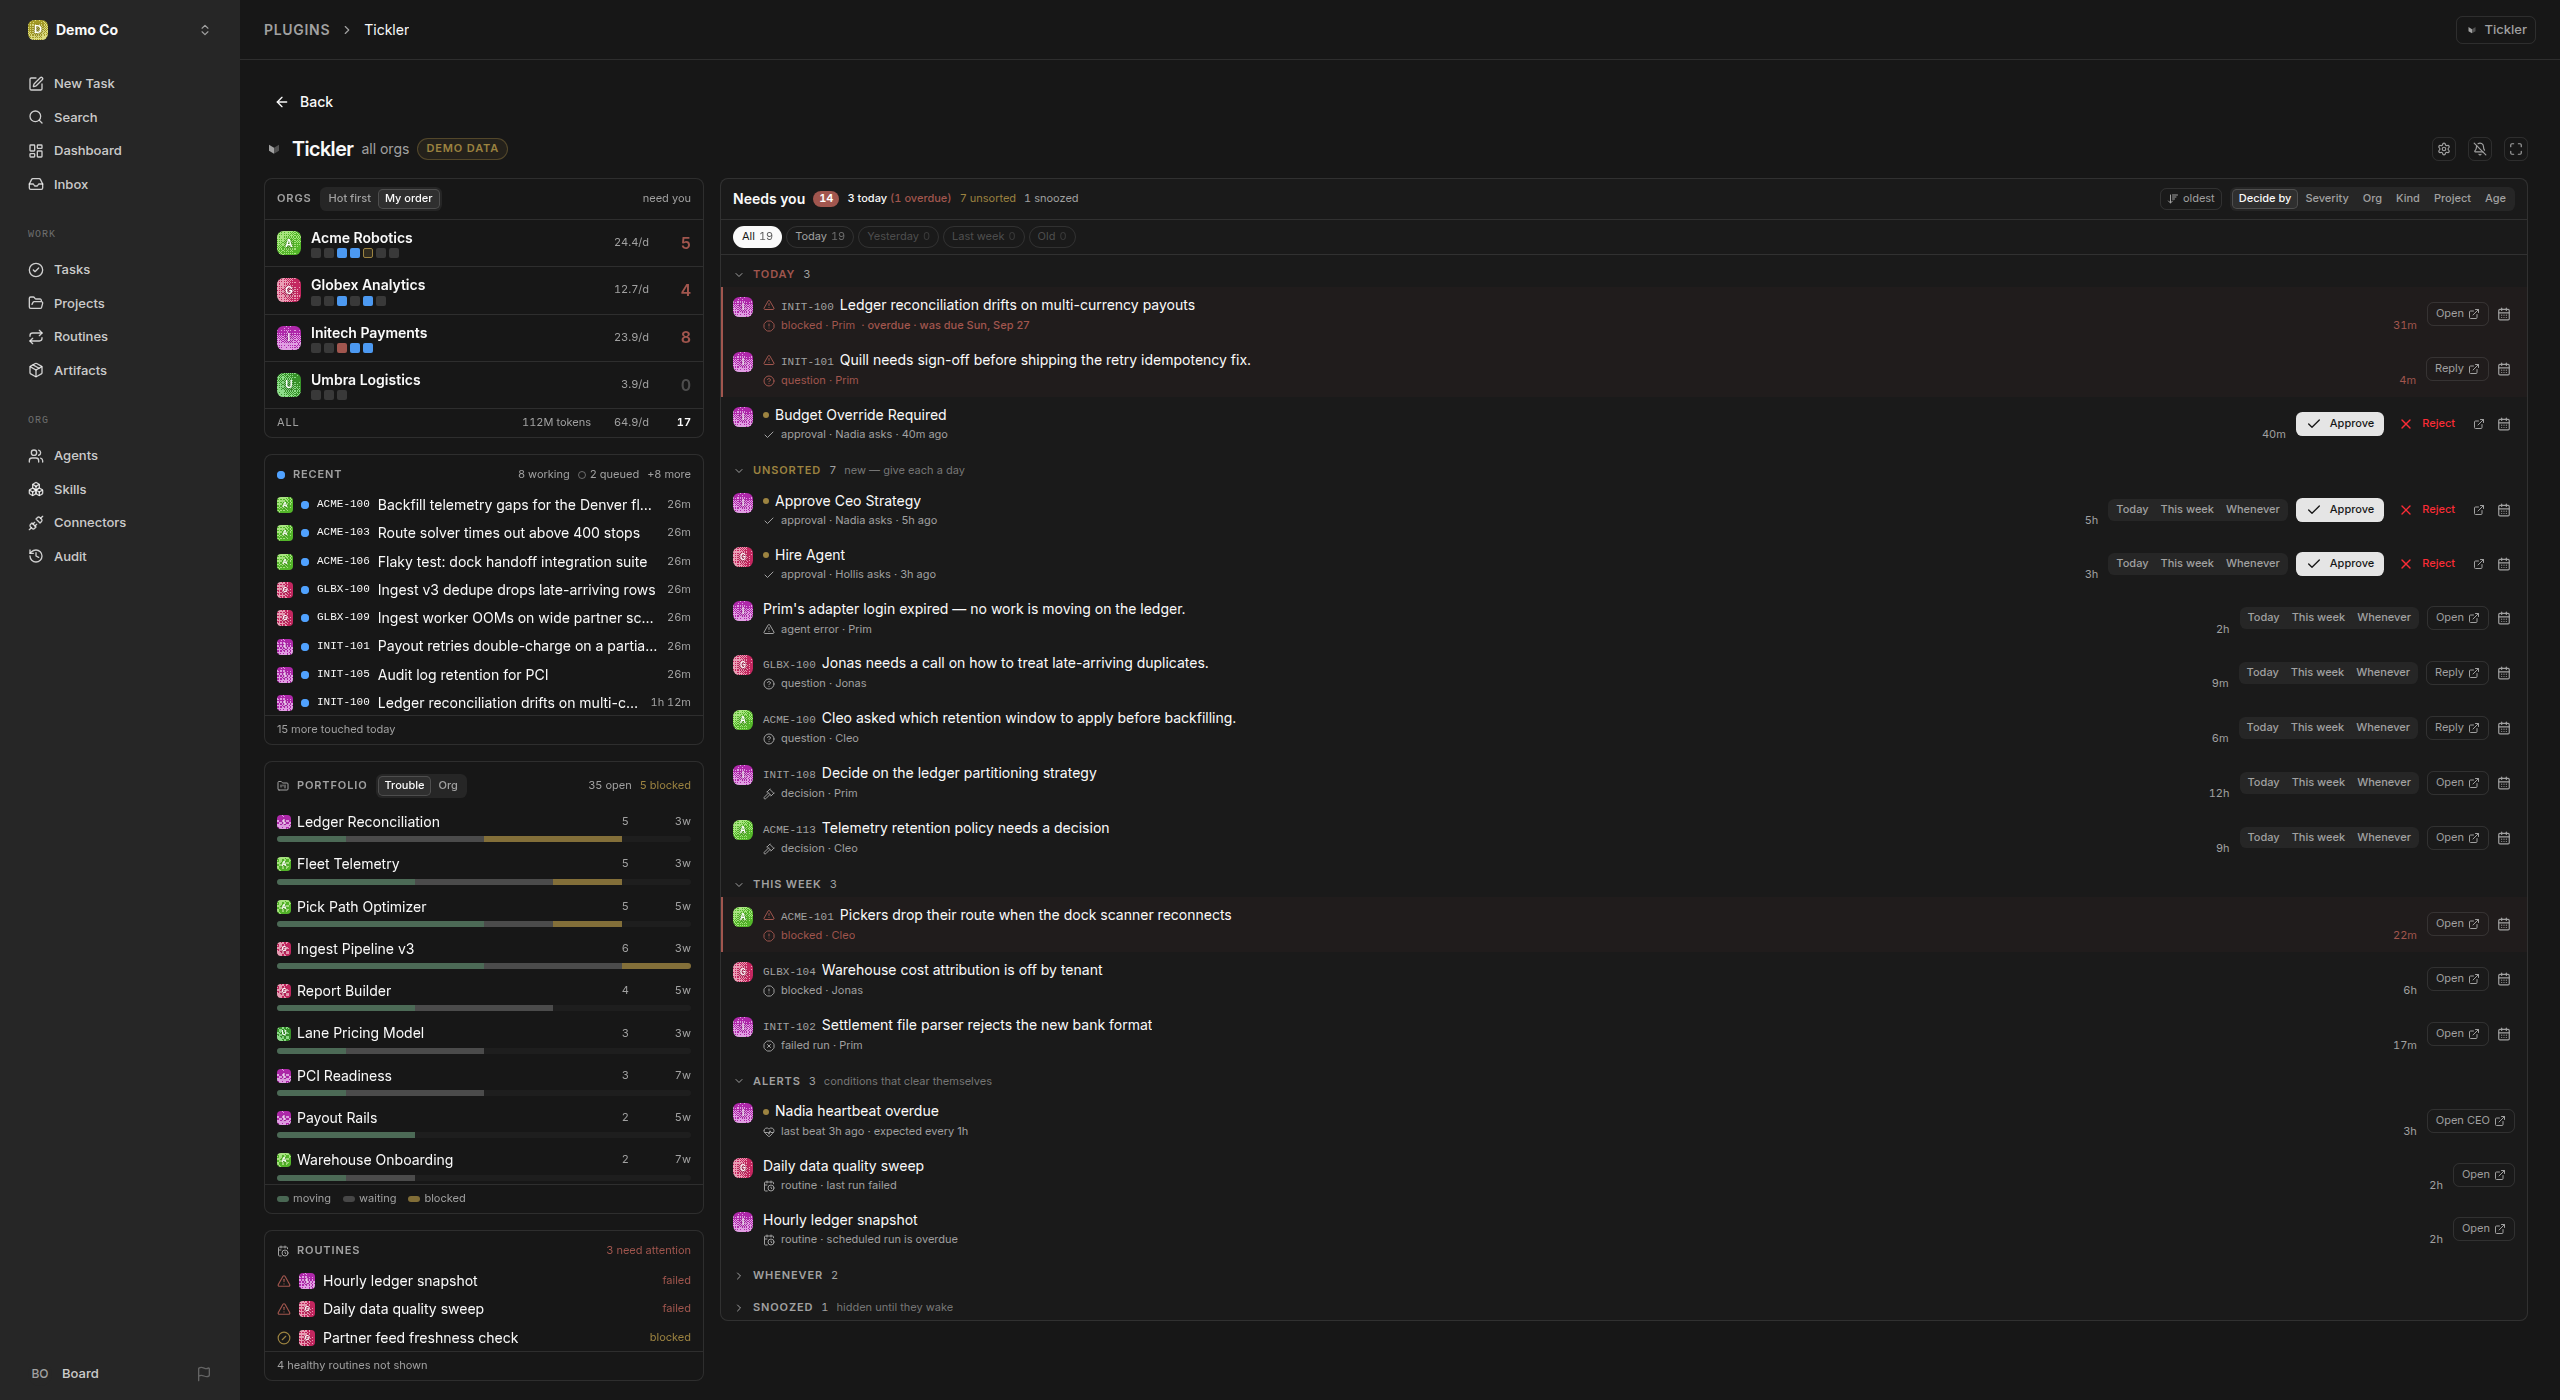
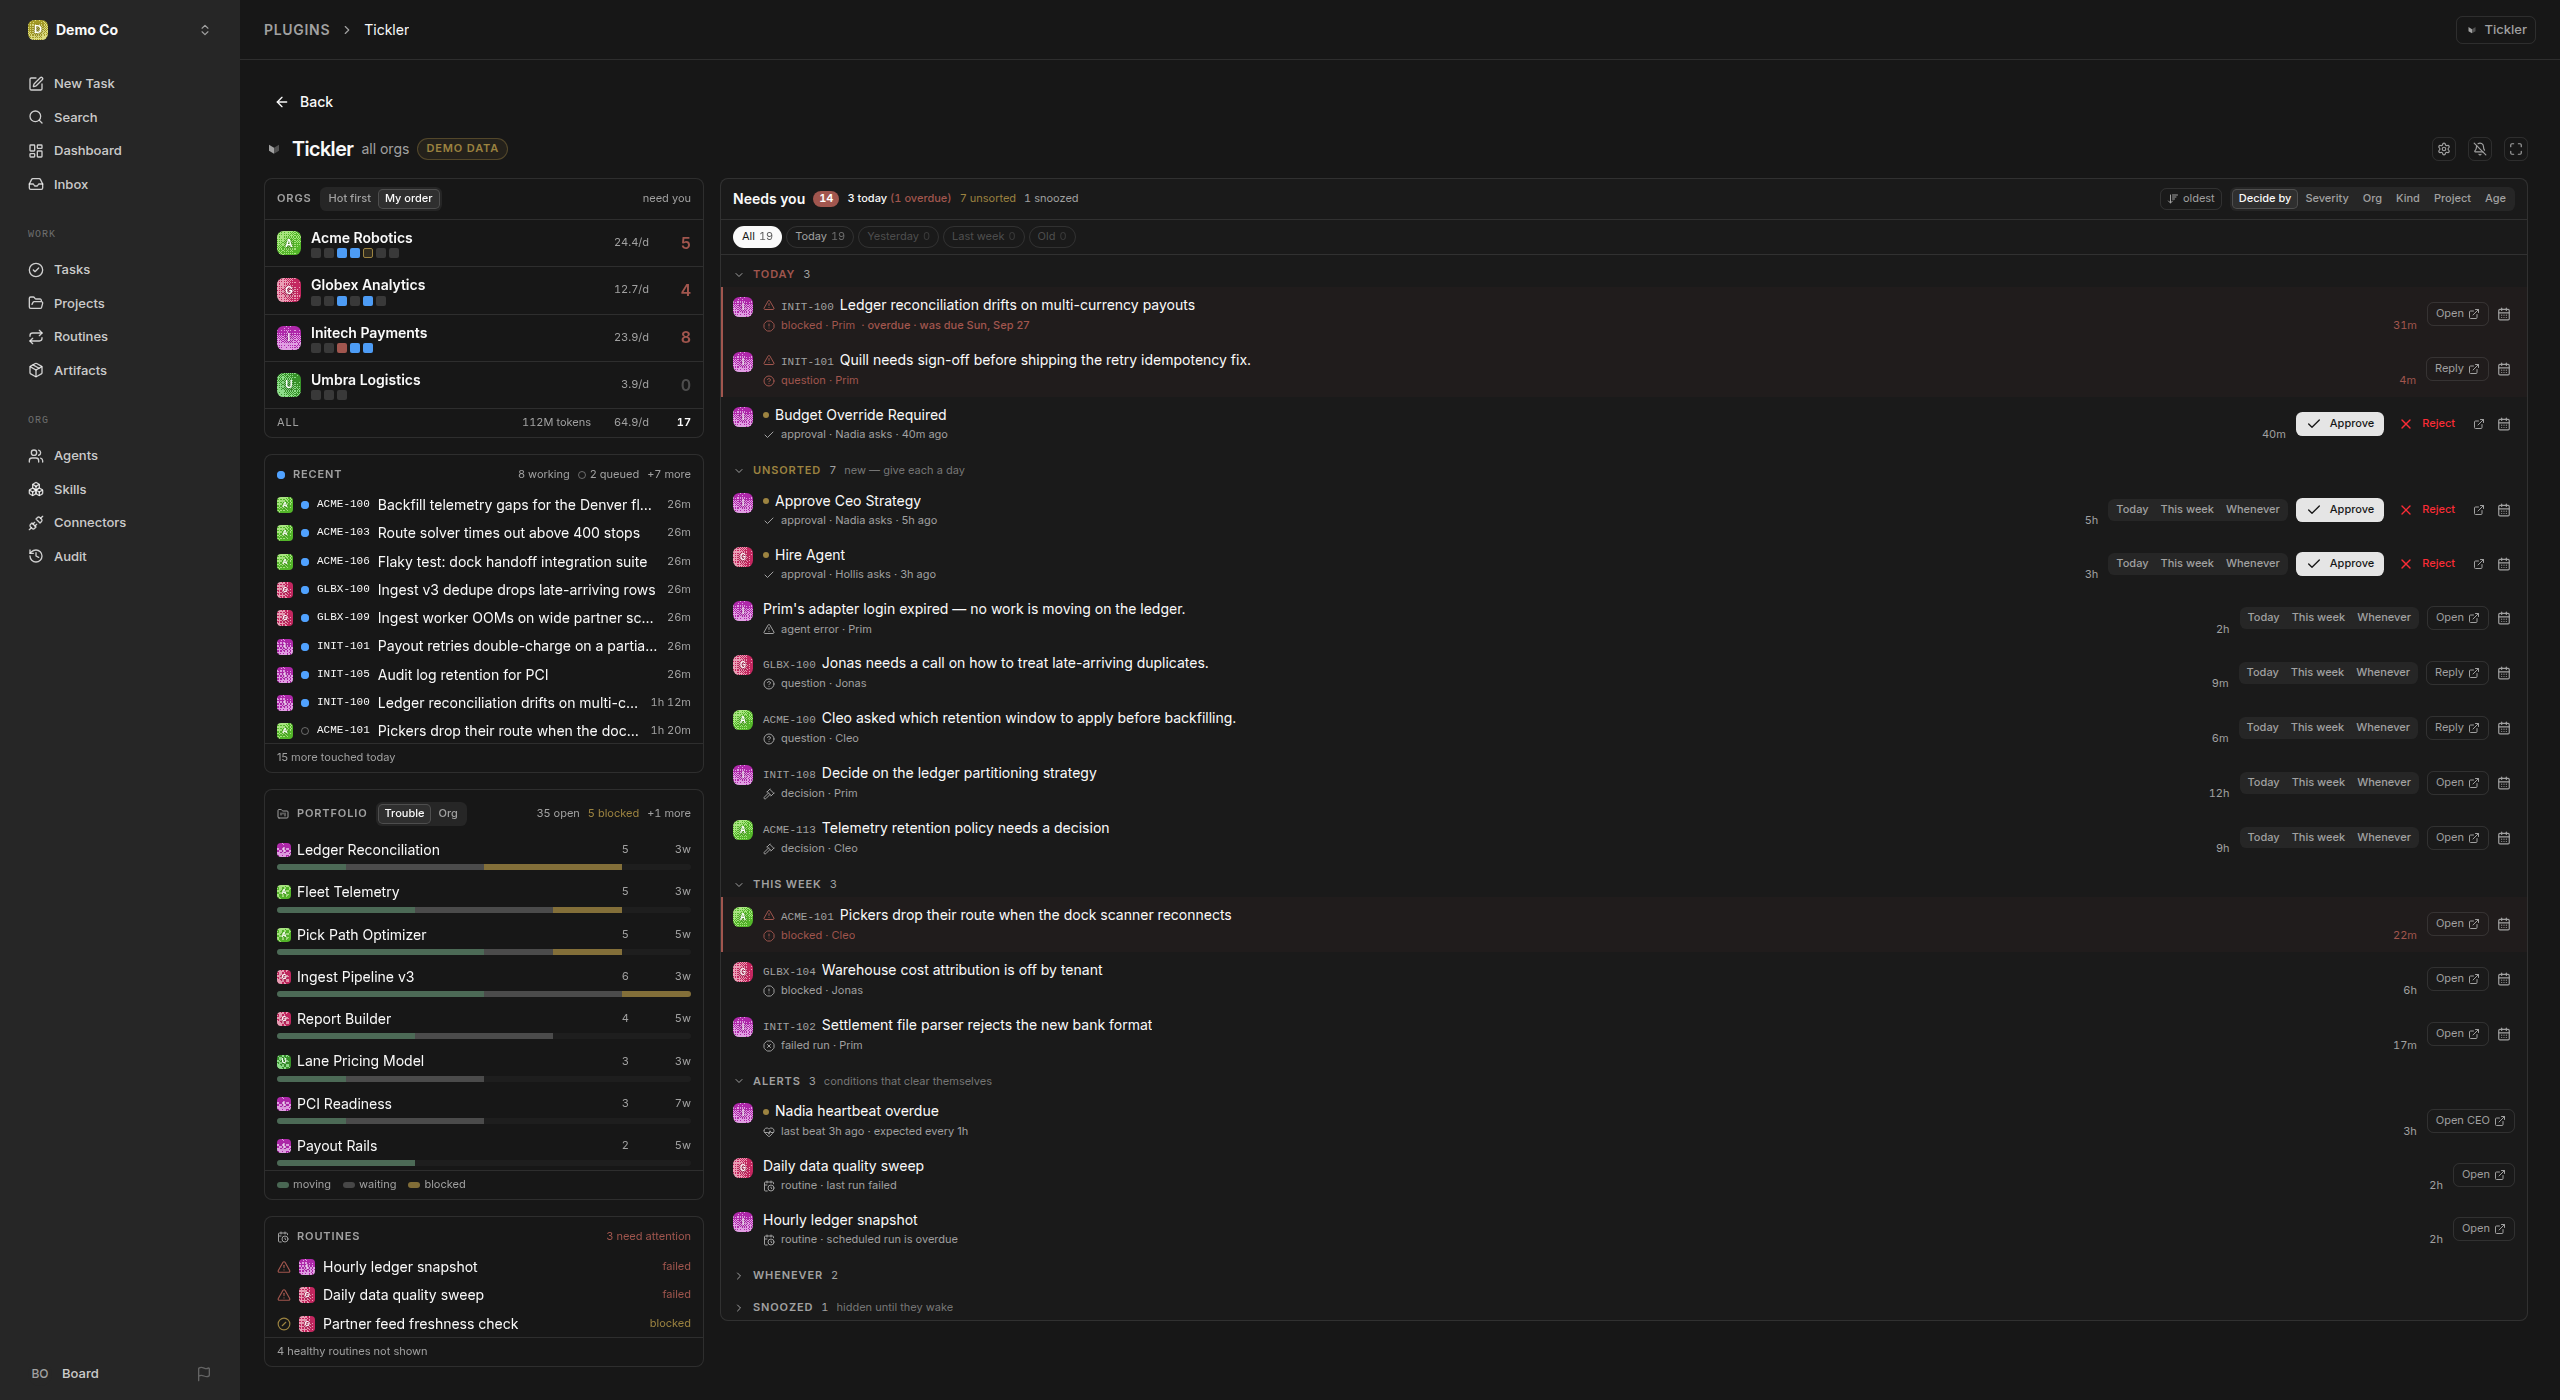
feat(board): Orgs and Recent are served first when the rail is short (PLI-246)
The rail ranked its four panes strictly — Orgs, then Portfolio, then Recent,
then Routines — so a laptop, which has height for about two of them, spent it
on Orgs and Portfolio and left Recent as a one-line digest. Recent is what the
board is for. Orgs and Recent now share the first rank and keep their rows;
Portfolio and Routines rank equally behind them and take what is left.

Panes may tie on priority now, and tie by the order they are declared.

Changed region(s): [[0.0938, 0.5221, 0.2812, 0.86], [0.0938, 0.8907, 0.1875, 0.9829], [0.25, 0.8907, 0.2812, 0.9521]]

diff --git a/src/ui/lib/rail-budget.test.ts b/src/ui/lib/rail-budget.test.ts
@@ -10,9 +10,9 @@ import {
 /** The board's own four panes, so the numbers under test are the real ones. */
 const PANES: TicklerRailPaneSpec[] = [
   { key: "orgs", minRows: 3, idealRows: Infinity, priority: 1 },
+  { key: "recent", minRows: 3, idealRows: 12, priority: 1 },
   { key: "portfolio", minRows: 3, idealRows: 11, priority: 2 },
-  { key: "recent", minRows: 3, idealRows: 12, priority: 3 },
-  { key: "routines", minRows: 2, idealRows: 4, priority: 4 },
+  { key: "routines", minRows: 2, idealRows: 4, priority: 2 },
 ];
 
 /** A measured pane: 28px of header, a 20px footer, 32px rows, a 2px border. */
@@ -89,20 +89,33 @@ describe("distributeRailHeight", () => {
     for (const { key } of PANES) expect(budget[key]!.hidden, key).toBe(boxes[key].total - budget[key]!.rows);
   });
 
-  // Priority buys a place in the queue, not a place on the page: a pane whose
-  // minimum will not fit is passed over, and a cheaper pane behind it is still
-  // served. Two routine failures are worth more of a cramped rail than three of
-  // twenty Recent rows, which is the trade this ordering is meant to make.
-  it("passes over a pane whose minimum will not fit and serves a cheaper one behind it", () => {
+  // What a short screen is spent on, which is the board's one editorial choice:
+  // Orgs and Recent share the first rank and keep their rows, and Portfolio —
+  // second rank, and no cheaper than Recent — falls back to the digest in its
+  // header rather than taking Recent's place.
+  it("keeps the first-rank panes when there is only room for some of them", () => {
     const boxes = metrics({ orgs: 12, portfolio: 11, recent: 20, routines: 3 });
     const budget = distributeRailHeight(PANES, boxes, { available: 500, gap: GAP });
     expect(budget.orgs!.demoted).toBe(false);
-    expect(budget.portfolio!.demoted).toBe(false);
-    expect(budget.recent!.demoted).toBe(true);
-    expect(budget.recent!.height).toBeNull();
-    expect(budget.recent!.hidden).toBe(20);
-    expect(budget.routines!.rows).toBe(2);
+    expect(budget.recent!.demoted).toBe(false);
+    expect(budget.recent!.rows).toBeGreaterThanOrEqual(3);
+    expect(budget.portfolio!.demoted).toBe(true);
+    expect(budget.portfolio!.height).toBeNull();
+    expect(budget.portfolio!.hidden).toBe(11);
     expect(spent(budget, boxes)).toBeLessThanOrEqual(500);
+  });
+
+  // Priority buys a place in the queue, not a place on the page: a pane whose
+  // minimum will not fit is passed over, and a cheaper pane behind it is still
+  // served. Two routine failures are worth more of a cramped rail than the
+  // twelfth Portfolio bar, which is the trade this ordering is meant to make.
+  it("passes over a pane whose minimum will not fit and serves a cheaper one behind it", () => {
+    const boxes = { ...metrics({ orgs: 12, recent: 20, routines: 3 }), portfolio: box(11, { row: 200 }) };
+    const budget = distributeRailHeight(PANES, boxes, { available: 700, gap: GAP });
+    expect(budget.portfolio!.demoted).toBe(true);
+    expect(budget.routines!.demoted).toBe(false);
+    expect(budget.routines!.rows).toBeGreaterThanOrEqual(2);
+    expect(spent(budget, boxes)).toBeLessThanOrEqual(700);
   });
 
   it("demotes rather than clips when the rail is far too short", () => {

diff --git a/src/ui/components/TicklerBoardPage.tsx b/src/ui/components/TicklerBoardPage.tsx
@@ -48,19 +48,23 @@ const MICRO = "text-[length:var(--tickler-fs-micro,11px)] leading-[1.45]";
  * served first when there is not enough for everyone. `distributeRailHeight`
  * in `lib/rail-budget` is what is done with them.
  *
- * Orgs first and with no ideal, because it is navigation — every org you watch
- * belongs on the page, and its rows are the cheapest in the rail. Portfolio
- * next and capped at eleven, since comparing bars past that is not something
- * anyone does at a glance. Recent is allowed more rows than Portfolio but
- * served after it: it is the pane that refills itself, so the rows it loses
- * come back. Routines last, and content with two — on a good day it has none,
- * and the header alone is the answer.
+ * Orgs and Recent are the two that matter, so they share the first rank and a
+ * short screen spends itself on them: Orgs because it is navigation — every org
+ * you watch belongs on the page, and its rows are the cheapest in the rail —
+ * and Recent because it is what the board is for. Orgs has no ideal; Recent
+ * stops at twelve, past which it is a log rather than a glance. Portfolio and
+ * Routines share the second rank, equal to each other, and take what is left:
+ * Portfolio capped at eleven, since comparing bars past that is not something
+ * anyone does at a glance, and Routines content with four — on a good day it
+ * has no exceptions at all and the header alone is the answer.
+ *
+ * Ranks tie by the order written here, which is the only thing this order does.
  */
 const RAIL_PANES: readonly TicklerRailPaneSpec[] = [
   { key: "orgs", minRows: 3, idealRows: Infinity, priority: 1 },
+  { key: "recent", minRows: 3, idealRows: 12, priority: 1 },
   { key: "portfolio", minRows: 3, idealRows: 11, priority: 2 },
-  { key: "recent", minRows: 3, idealRows: 12, priority: 3 },
-  { key: "routines", minRows: 2, idealRows: 4, priority: 4 },
+  { key: "routines", minRows: 2, idealRows: 4, priority: 2 },
 ];
 
 /** Re-render on a slow clock so ages and countdowns don't freeze between polls. */

diff --git a/src/ui/lib/rail-budget.ts b/src/ui/lib/rail-budget.ts
@@ -30,7 +30,11 @@ export interface TicklerRailPaneSpec {
   minRows: number;
   /** Past this, height is better spent on another pane. `Infinity` = all of them. */
   idealRows: number;
-  /** Lower goes first, both for minimums and for the surplus. */
+  /**
+   * Lower goes first, both for minimums and for the surplus. Panes may share a
+   * rank — they are then served in the order they are declared, which is how
+   * "these two matter and the rest are equal" is written down.
+   */
   priority: number;
 }
 
@@ -127,7 +131,7 @@ export function distributeRailHeight(
   }
   // The surplus, one row at a time, cycling the panes in priority order and
   // skipping any already at its ideal. Orgs is cheap and first, so it is whole
-  // before Portfolio takes its fourth row; on a tall screen every pane grows
+  // before Routines takes its fourth row; on a tall screen every pane grows
   // together instead of one pane eating the height.
   for (let moving = true; moving; ) {
     moving = false;

diff --git a/docs/board.md b/docs/board.md
@@ -139,11 +139,13 @@ The rail is as tall as the screen leaves it — the band below the board's own
 header, which is shorter than the window — and **spends that height** on the
 panes in it.
 Each pane asks for the fewest rows worth drawing and the most rows worth keeping;
-every pane gets its minimum, and what is left over goes out a row at a time,
-Orgs first, then Portfolio, Recent and Routines. So a bigger monitor shows more
-of each pane rather than more empty rail, and watching another org takes rows
-from the panes that can spare them instead of pushing Portfolio off the bottom of
-the screen.
+every pane gets its minimum, and what is left over goes out a row at a time.
+**Orgs and Recent are served first** and keep their rows on a short screen;
+Portfolio and Routines rank equally behind them and take what is left. So a
+bigger monitor shows more of each pane rather than more empty rail, watching
+another org takes rows from the panes that can spare them instead of pushing
+Portfolio off the bottom of the screen, and a laptop spends the little height it
+has on the two panes worth reading.
 
 A pane is always its header plus a whole number of rows — never a row cut in half
 — and one holding rows back says so: **+8 more**. On a window too short to seat a

diff --git a/CHANGELOG.md b/CHANGELOG.md
@@ -11,7 +11,9 @@ Short-form. The reader-facing write-up for each version is in
   Portfolio was off the bottom of the screen. The rail is now pinned to the
   viewport, measures itself, and gives each pane a height of its header plus a
   whole number of measured rows: everyone gets the fewest rows worth drawing,
-  then the surplus goes out one row at a time in priority order. No pane ends in
+  then the surplus goes out one row at a time in rank order — Orgs and Recent
+  first, Portfolio and Routines equal behind them, so a short screen is spent on
+  the two panes worth reading. No pane ends in
   a row cut in half, a pane holding rows back says `+8 more`, one the rail cannot
   seat falls back to its header instead of being clipped, and a taller monitor
   goes into the panes rather than into a scrollbar. The layout studies behind it
